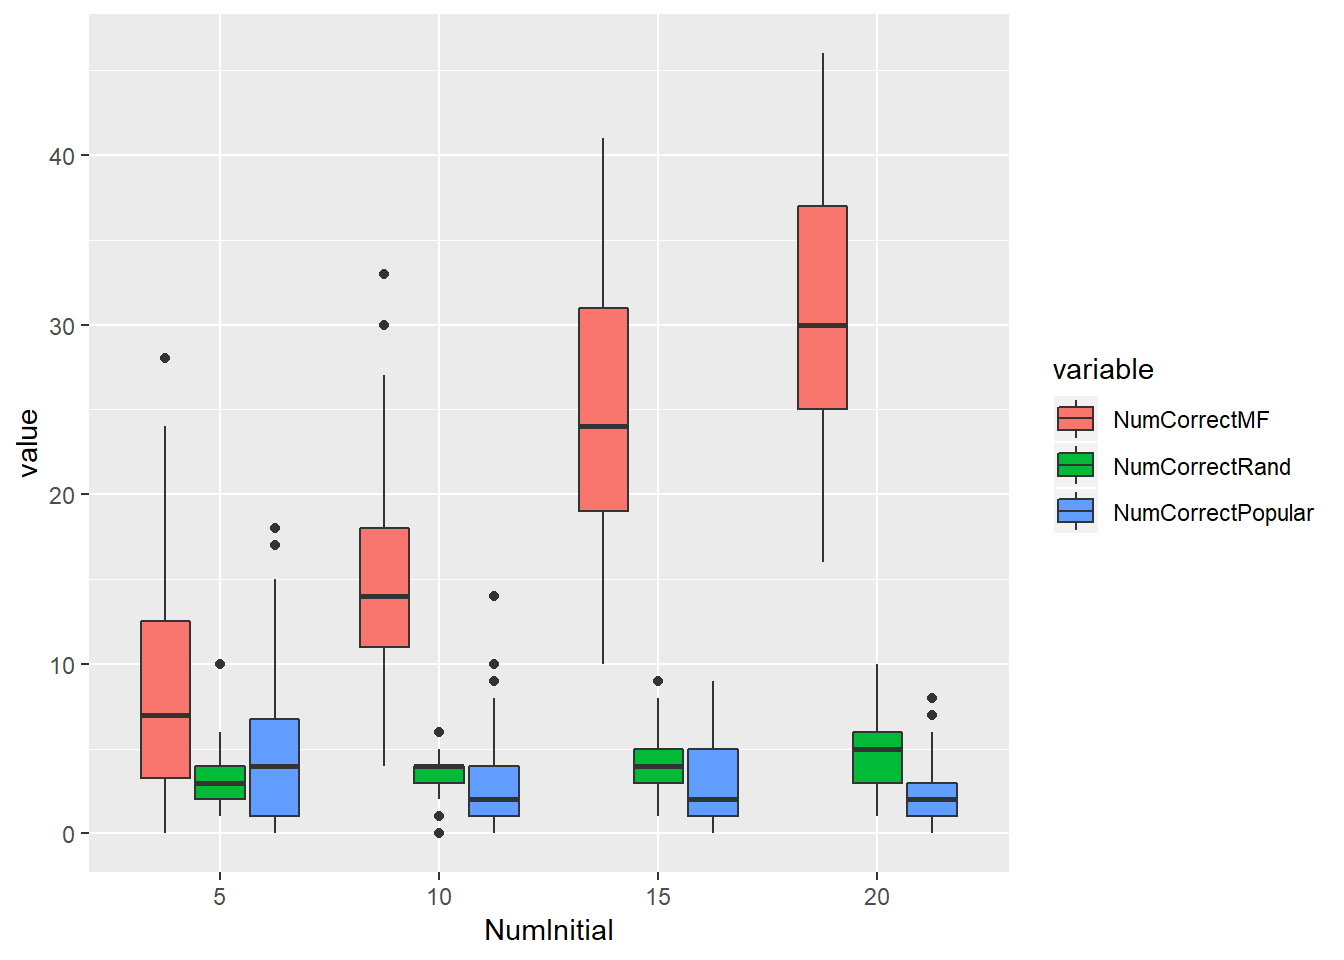
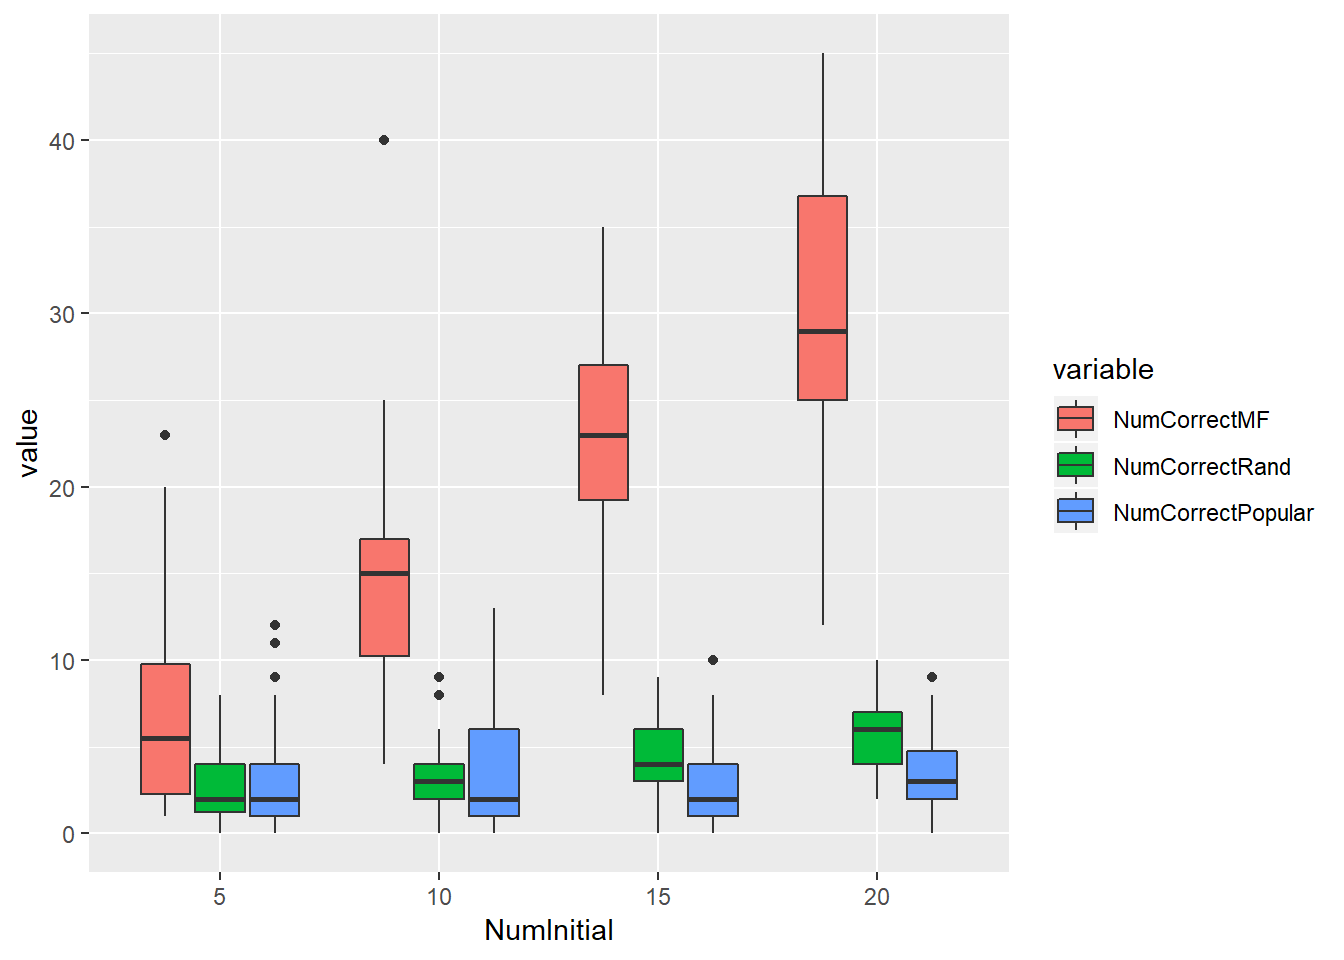
mh update

diff --git a/MHRecSys.html b/MHRecSys.html
@@ -12,7 +12,7 @@
 <meta name="author" content="James A. Grant" />
 
 
-<title>Investigating a small-scale Recommender Systems for Stories</title>
+<title>Investigating a small-scale Recommender System</title>
 
 <script src="MHRecSys_files/jquery-1.11.3/jquery.min.js"></script>
 <meta name="viewport" content="width=device-width, initial-scale=1" />
@@ -206,7 +206,7 @@ $(document).ready(function () {
 
 
 
-<h1 class="title toc-ignore">Investigating a small-scale Recommender Systems for Stories</h1>
+<h1 class="title toc-ignore">Investigating a small-scale Recommender System</h1>
 <h4 class="author">James A. Grant</h4>
 
 </div>
@@ -328,79 +328,29 @@ ggplot(data = xx, aes(y=rowname, x=variable, fill=value)) +
 </div>
 <div id="evaluation" class="section level2">
 <h2>3. Evaluation</h2>
-<p>There are several ways to numerically evaluate the results. We may consider the root mean squared error (RMSE) of all the predictions:</p>
-<pre class="r"><code># Prediction accuracy - RMSE
-rmse(as.numeric(pred.ratings),as.numeric(true.ratings))</code></pre>
-<pre><code>## [1] 0.198306</code></pre>
-<p>We could then compare this against the predictions from different models. Alternatively, we can look at the quality of the recommendations made by the model, which is arguably more important than its overall fit.</p>
-<p>Below, we consider recommending one item to each user. We choose the item with the highest predicted rating, amongst those that they have not previously rated for each user. We then calculate the number of times that this recommendation is the item that they truly would have rated highest (among those their rating hasn’t been revealed for) and the propotion of the total available rating score that is achieved by the recommendations made.</p>
-<pre class="r"><code># Recommendation accuracy
-pred.top1 &lt;- numeric(n.users)
-val.pred.top1 &lt;- numeric(n.users)
-for(i in 1:n.users){
-  pred.top1[i] &lt;- which.max((pred.ratings-obs.ratings)[i,])
-  val.pred.top1[i] &lt;- true.ratings[i,pred.top1[i]]
-}
-true.top1 &lt;- numeric(n.users)
-val.true.top1 &lt;- numeric(n.users)
-for(i in 1:n.users){
-  true.top1[i] &lt;- which.max((true.ratings-obs.ratings)[i,])
-  val.true.top1[i] &lt;- true.ratings[i,true.top1[i]]
-}
-
-# Recommendation accuracy - Number of spot on recommendations
-sum(pred.top1==true.top1)</code></pre>
-<pre><code>## [1] 37</code></pre>
-<pre class="r"><code># Recommendation accuracy - Percentage of available rating score
-sum(val.pred.top1)/sum(val.true.top1)</code></pre>
-<pre><code>## [1] 0.9347598</code></pre>
-<p>We can compare these accuracy scores, against those for random recommendations, or recommending every user the most popular items that they haven’t themselves rated.</p>
-<pre class="r"><code>random.rec &lt;- numeric(n.users)
-val.random.rec &lt;- numeric(n.users)
-for(i in 1:n.users){
-  random.rec[i] &lt;- sample(c(1:n.items)[-obs.ind[i,]],1)
-  val.random.rec[i] &lt;- true.ratings[i,random.rec[i]]
-}
-sum(random.rec==true.top1)</code></pre>
-<pre><code>## [1] 3</code></pre>
-<pre class="r"><code>sum(val.random.rec)/sum(val.true.top1)</code></pre>
-<pre><code>## [1] 0.5271053</code></pre>
-<pre class="r"><code>ave.obs.rate &lt;- numeric(n.items)
-for(j in 1:n.items){
-  ave.obs.rate[j] &lt;- mean(obs.ratings[,j][obs.ratings[,j]!=0])
-}
-ave.obs.rate &lt;- rbind(ave.obs.rate,c(1:n.items))
-ave.obs.rate &lt;- ave.obs.rate[,order(ave.obs.rate[1,])]
-
-popular.rec &lt;- numeric(n.users)
-val.popular.rec &lt;- numeric(n.users)
-for(i in 1:n.users){
-  j &lt;- n.items
-  while(j %in% obs.ind[i,]){
-    j&lt;-j-1
-  }
-  popular.rec[i] &lt;- ave.obs.rate[2,j]
-  val.popular.rec[i] &lt;- true.ratings[i,popular.rec[i]]
-}
-sum(popular.rec==true.top1)</code></pre>
-<pre><code>## [1] 4</code></pre>
-<pre class="r"><code>sum(val.popular.rec)/sum(val.true.top1)</code></pre>
-<pre><code>## [1] 0.5291286</code></pre>
-</div>
-<div id="evaluation-over-many-repetitions" class="section level2">
-<h2>4. Evaluation over many repetitions</h2>
-<p>This is only a single sample’s results, we want to repeat this many times (and with different parameters) to get an idea of average performance, and how it is affected by the variability in the data/amount of observed data.</p>
-<p>We define a function which can be used to repeat these analyses, and implement it repeatedly for various parameter values.</p>
-<p>We can then plot the distribution of the number of correct guesses for different numbers of initial ratings.</p>
+<p>Beyond eyeballing the data, it is interesting to numerically evaluate the recommender system. One option is to measure the error in the estimates of the rating parameters, however we are ultimately interested in the quality of decisions (recommendations) made by the algorithm, so more interesting metrics are based on the accuracy of the decisions.</p>
+<p>Below, we consider recommending one item to each user. We choose the item with the highest predicted rating, amongst those that they have not previously rated for each user. We will compare this to approaches which choose an item to recommend randomly and those which recommend the most popular items, without considering the varying preferences across user groups.</p>
+<p>We consider two measures of performance:</p>
+<ul>
+<li><p>Number of “Spot-on” recommendations - the number of users for whom a method is able to recommend the exact best item for them from those remaining.</p></li>
+<li><p>Proportion of “Oracle” rating - the fraction of the best possible ratings achieved by a method (or the scores of a method divided by those of an “oracle” - a method that knew the ratings in advance and could offer everyone the best item for them).</p></li>
+</ul>
+<p>We repeat the inference many times on sampled data so that we can get an idea of the distribution of these measures, and also vary the number of initial recommednations and the variance in the ratings, to see how performance is affected.</p>
 <pre class="r"><code>recdata.melt &lt;- melt(recdata,id.vars=c(&quot;NumUsers&quot;,&quot;NumItems&quot;,&quot;NumInitial&quot;,&quot;ID&quot;),measure.vars=c(&quot;RMSEMF&quot;,&#39;NumCorrectMF&#39;,&#39;PropOracleMF&#39;,&quot;NumCorrectRand&quot;,                        &quot;PropOracleRand&quot;,&quot;NumCorrectPopular&quot;, &quot;PropOraclePopular&quot;))
 recdata.melt$NumInitial &lt;- as.factor(recdata.melt$NumInitial)
 
 ggplot(recdata.melt[recdata.melt$variable%in%c(&quot;NumCorrectMF&quot;,&quot;NumCorrectPopular&quot;,&quot;NumCorrectRand&quot;),]) +
-      geom_boxplot(aes(x=NumInitial, y=value,fill=variable))</code></pre>
-<p><img src="MHRecSys_files/figure-html/unnamed-chunk-15-1.png" width="672" /></p>
+      geom_boxplot(aes(x=NumInitial, y=value,fill=variable)) + labs(x=&quot;Number of initial ratings&quot;,y=&quot;Number of spot-on recommendations&quot;,title=&quot;Effect of number of initial ratings on number of spot-on recommendations&quot;,subtitle=&quot;100 users, 40 items, ratings variance of 1&quot;) + scale_fill_discrete(name = &quot;Method&quot;, labels = c(&quot;Matrix Factorisation&quot;, &quot;Random&quot;, &quot;Popularity&quot;))</code></pre>
+<p><img src="MHRecSys_files/figure-html/unnamed-chunk-12-1.png" width="672" /></p>
 <pre class="r"><code>ggplot(recdata.melt[recdata.melt$variable%in%c(&quot;PropOracleMF&quot;,&quot;PropOraclePopular&quot;,&quot;PropOracleRand&quot;),]) +
-      geom_boxplot(aes(x=NumInitial, y=value,fill=variable))</code></pre>
-<p><img src="MHRecSys_files/figure-html/unnamed-chunk-15-2.png" width="672" /></p>
+      geom_boxplot(aes(x=NumInitial, y=value,fill=variable)) + labs(x=&quot;Number of initial ratings&quot;,y=&quot;Proportion of Oracle rating&quot;,title=&quot;Effect of number of initial ratings on proportion of oracle rating&quot;,subtitle=&quot;100 users, 40 items, ratings variance of 1&quot;) + scale_fill_discrete(name = &quot;Method&quot;, labels = c(&quot;Matrix Factorisation&quot;, &quot;Random&quot;, &quot;Popularity&quot;))</code></pre>
+<p><img src="MHRecSys_files/figure-html/unnamed-chunk-12-2.png" width="672" /></p>
+<pre class="r"><code>ggplot(recdata.melt[recdata.melt$variable%in%c(&quot;NumCorrectMF&quot;,&quot;NumCorrectPopular&quot;,&quot;NumCorrectRand&quot;),]) +
+      geom_boxplot(aes(x=RatingVariance, y=value,fill=variable)) + labs(x=&quot;Ratings Variance&quot;,y=&quot;Number of spot-on recommendations&quot;,title=&quot;Effect of ratings variance on number of spot-on recommendations&quot;,subtitle=&quot;100 users, 40 items, 10 initial ratings&quot;) + scale_fill_discrete(name = &quot;Method&quot;, labels = c(&quot;Matrix Factorisation&quot;, &quot;Random&quot;, &quot;Popularity&quot;))</code></pre>
+<p><img src="MHRecSys_files/figure-html/unnamed-chunk-14-1.png" width="672" /></p>
+<pre class="r"><code>ggplot(recdata.melt[recdata.melt$variable%in%c(&quot;PropOracleMF&quot;,&quot;PropOraclePopular&quot;,&quot;PropOracleRand&quot;),]) +
+      geom_boxplot(aes(x=RatingVariance, y=value,fill=variable)) + labs(x=&quot;Ratings Variance&quot;,y=&quot;Proportion of Oracle rating&quot;,title=&quot;Effect of number of initial ratings on proportion of oracle rating&quot;,subtitle=&quot;100 users, 40 items, 10 initial ratings&quot;) + scale_fill_discrete(name = &quot;Method&quot;, labels = c(&quot;Matrix Factorisation&quot;, &quot;Random&quot;, &quot;Popularity&quot;))</code></pre>
+<p><img src="MHRecSys_files/figure-html/unnamed-chunk-14-2.png" width="672" /></p>
 </div>
 
 
